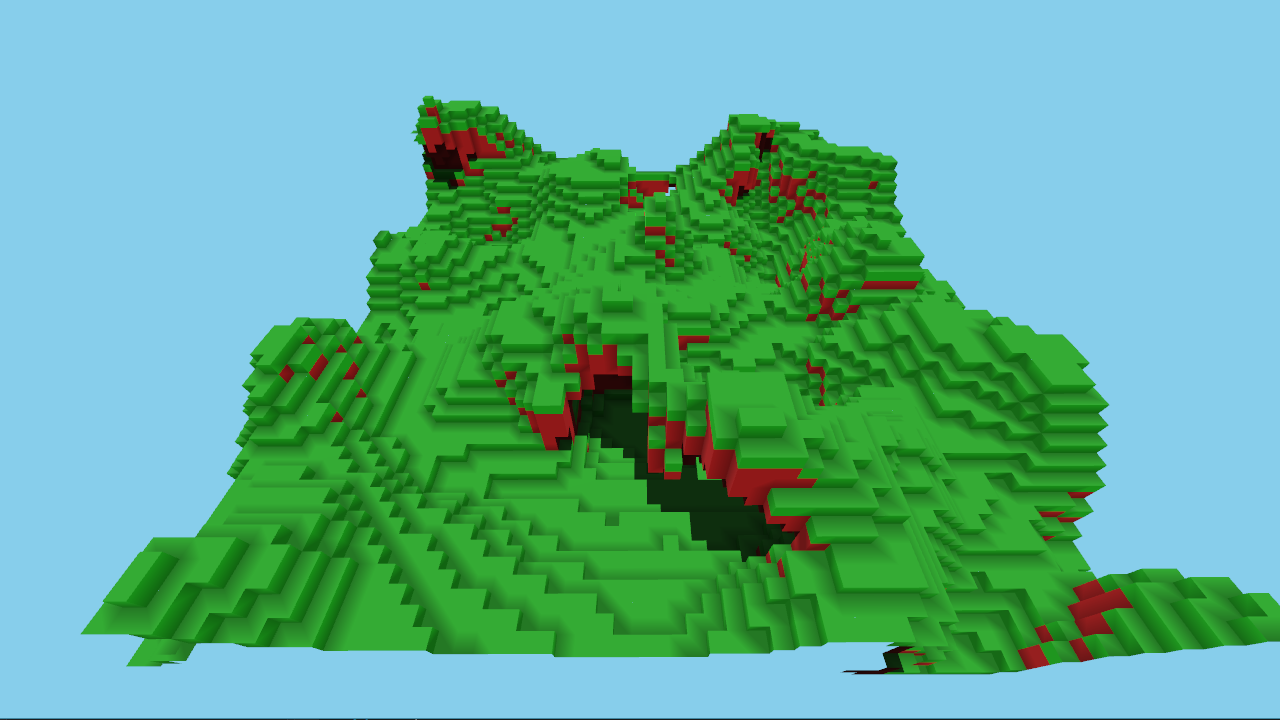
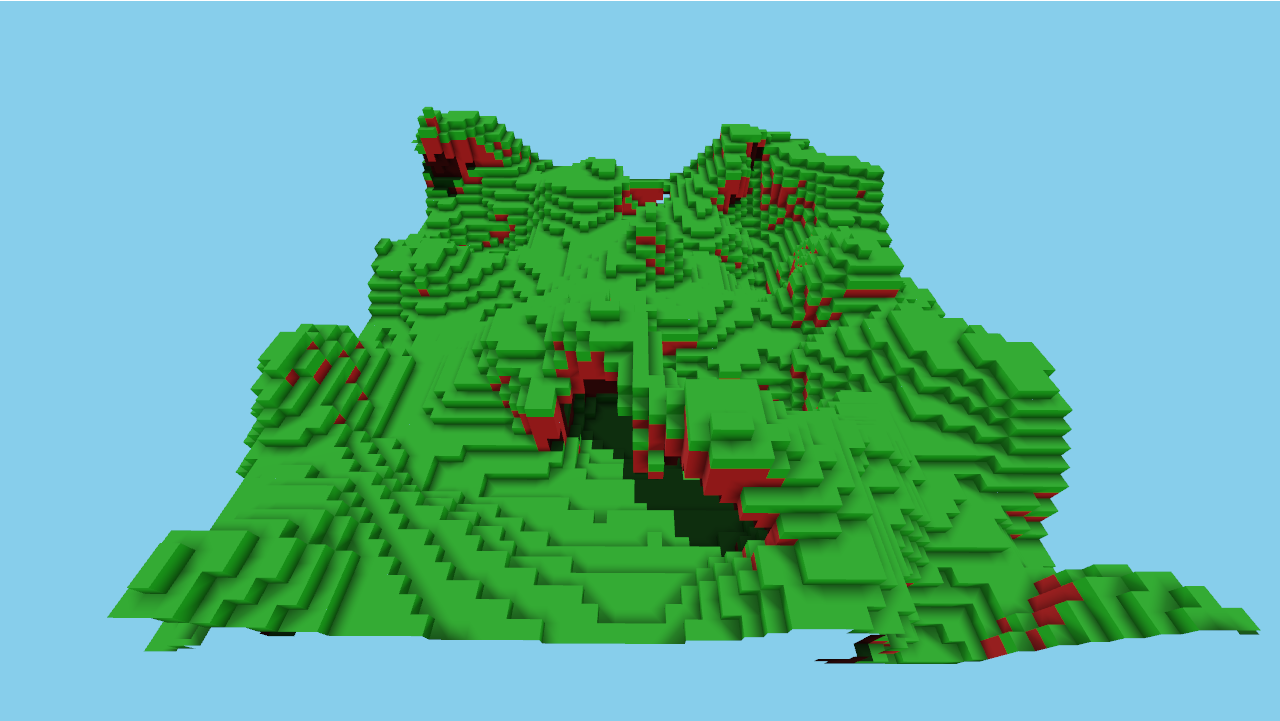
Fix AO anisotropy

Changed region(s): [[0.0625, 0.1222, 1.0, 0.9472], [0.0, 0.9778, 1.0, 1.0], [0.375, 0.825, 0.4062, 0.8556]]

diff --git a/src/mesher.h b/src/mesher.h
@@ -38,6 +38,13 @@ inline constexpr glm::ivec2 ao_dirs[8] = {
    glm::ivec2(1, 1),
 };
 
+inline const int vertexAO(int side1, int side2, int corner) {
+  if (side1 && side2) {
+    return 0;
+  }
+  return 3 - (side1 + side2 + corner);
+}
+
 inline const bool compare_ao(std::vector<uint8_t>& voxels, int axis, int forward, int right, int c, int forward_offset, int right_offset) {
   for (const auto& ao_dir : ao_dirs) {
     if (solid_check(voxels.at(get_axis_i(axis, right + ao_dir[0], forward + ao_dir[1], c))) !=
@@ -65,12 +72,17 @@ inline const bool compare_right(std::vector<uint8_t>& voxels, std::vector<uint8_
   ;
 }
 
-inline const void insert_quad(std::vector<uint32_t>* vertices, uint32_t x, uint32_t y, uint32_t z, uint32_t type, uint32_t light, uint32_t norm, uint32_t ao) {
-  vertices->insert(vertices->end(),
-    {
-      (ao << 30) | (norm << 27) | (light << 23) | (type << 18) | (z << 12) | (y << 6) | x
-    }
-   );
+inline const void insert_quad(std::vector<uint32_t>* vertices, uint32_t v1, uint32_t v2, uint32_t v3, uint32_t v4, bool flipped) {
+  if (flipped) {
+    vertices->insert(vertices->end(), { v1, v2, v4, v4, v2, v3 });
+  }
+  else {
+    vertices->insert(vertices->end(), { v1, v2, v3, v3, v4, v1 });
+  }
+}
+
+inline const uint32_t get_vertex(uint32_t x, uint32_t y, uint32_t z, uint32_t type, uint32_t light, uint32_t norm, uint32_t ao) {
+  return (ao << 30) | (norm << 27) | (light << 23) | (type << 18) | ((z - 1) << 12) | ((y - 1) << 6) | (x - 1);
 }
 
 // voxels - 64^3 (includes neighboring voxels)
@@ -180,61 +192,57 @@ std::vector<uint32_t>* mesh(std::vector<uint8_t>& voxels, std::vector<uint8_t>& 
           uint8_t ao_RFC = solid_check(voxels.at(get_axis_i(axis, right + 1, forward - 1, c))) ? 1 : 0;
           uint8_t ao_RBC = solid_check(voxels.at(get_axis_i(axis, right + 1, forward + 1, c))) ? 1 : 0;
 
-          uint8_t ao_LB = ao_L + ao_B + ao_LBC;
-          uint8_t ao_LF = ao_L + ao_F + ao_LFC;
-          uint8_t ao_RB = ao_R + ao_B + ao_RBC;
-          uint8_t ao_RF = ao_R + ao_F + ao_RFC;
+          uint8_t ao_LB = vertexAO(ao_L, ao_B, ao_LBC);
+          uint8_t ao_LF = vertexAO(ao_L, ao_F, ao_LFC);
+          uint8_t ao_RB = vertexAO(ao_R, ao_B, ao_RBC);
+          uint8_t ao_RF = vertexAO(ao_R, ao_F, ao_RFC);
 
           merged_forward[(right * CS_P) + bit_pos] = 0;
           merged_right[bit_pos] = 0;
 
+          uint32_t v1, v2, v3, v4;
           if (face == 0) {
-            insert_quad(vertices, mesh_left,  mesh_up, mesh_front, type, light, face, ao_LF);
-            insert_quad(vertices, mesh_left,  mesh_up, mesh_back,  type, light, face, ao_LB);
-            insert_quad(vertices, mesh_right, mesh_up, mesh_back,  type, light, face, ao_RB);
-            insert_quad(vertices, mesh_right, mesh_up, mesh_back,  type, light, face, ao_RB);
-            insert_quad(vertices, mesh_right, mesh_up, mesh_front, type, light, face, ao_RF);
-            insert_quad(vertices, mesh_left,  mesh_up, mesh_front, type, light, face, ao_LF);
+            v1 = get_vertex(mesh_left, mesh_up, mesh_front, type, light, face, ao_LF);
+            v2 = get_vertex(mesh_left, mesh_up, mesh_back, type, light, face, ao_LB);
+            v3 = get_vertex(mesh_right, mesh_up, mesh_back, type, light, face, ao_RB);
+            v4 = get_vertex(mesh_right, mesh_up, mesh_front, type, light, face, ao_RF);
           }
           else if (face == 1) {
-            insert_quad(vertices, mesh_left,  mesh_up, mesh_back,  type, light, face, ao_LB);
-            insert_quad(vertices, mesh_left,  mesh_up, mesh_front, type, light, face, ao_LF);
-            insert_quad(vertices, mesh_right, mesh_up, mesh_front, type, light, face, ao_RF);
-            insert_quad(vertices, mesh_right, mesh_up, mesh_front, type, light, face, ao_RF);
-            insert_quad(vertices, mesh_right, mesh_up, mesh_back,  type, light, face, ao_RB);
-            insert_quad(vertices, mesh_left,  mesh_up, mesh_back,  type, light, face, ao_LB);
+            v1 = get_vertex(mesh_left, mesh_up, mesh_back, type, light, face, ao_LB);
+            v2 = get_vertex(mesh_left, mesh_up, mesh_front, type, light, face, ao_LF);
+            v3 = get_vertex(mesh_right, mesh_up, mesh_front, type, light, face, ao_RF);
+            v4 = get_vertex(mesh_right, mesh_up, mesh_back, type, light, face, ao_RB);
           }
           else if (face == 2) {
-            insert_quad(vertices, mesh_up, mesh_front, mesh_left,  type, light, face, ao_LF);
-            insert_quad(vertices, mesh_up, mesh_back,  mesh_left,  type, light, face, ao_LB);
-            insert_quad(vertices, mesh_up, mesh_back,  mesh_right, type, light, face, ao_RB);
-            insert_quad(vertices, mesh_up, mesh_back,  mesh_right, type, light, face, ao_RB);
-            insert_quad(vertices, mesh_up, mesh_front, mesh_right, type, light, face, ao_RF);
-            insert_quad(vertices, mesh_up, mesh_front, mesh_left,  type, light, face, ao_LF);
+            v1 = get_vertex(mesh_up, mesh_front, mesh_left, type, light, face, ao_LF);
+            v2 = get_vertex(mesh_up, mesh_back, mesh_left, type, light, face, ao_LB);
+            v3 = get_vertex(mesh_up, mesh_back, mesh_right, type, light, face, ao_RB);
+            v4 = get_vertex(mesh_up, mesh_front, mesh_right, type, light, face, ao_RF);
           }
           else if (face == 3) {
-            insert_quad(vertices, mesh_up, mesh_back,  mesh_left,  type, light, face, ao_LB);
-            insert_quad(vertices, mesh_up, mesh_front, mesh_left,  type, light, face, ao_LF);
-            insert_quad(vertices, mesh_up, mesh_front, mesh_right, type, light, face, ao_RF);
-            insert_quad(vertices, mesh_up, mesh_front, mesh_right, type, light, face, ao_RF);
-            insert_quad(vertices, mesh_up, mesh_back,  mesh_right, type, light, face, ao_RB);
-            insert_quad(vertices, mesh_up, mesh_back,  mesh_left,  type, light, face, ao_LB);
+            v1 = get_vertex(mesh_up, mesh_back, mesh_left, type, light, face, ao_LB);
+            v2 = get_vertex(mesh_up, mesh_front, mesh_left, type, light, face, ao_LF);
+            v3 = get_vertex(mesh_up, mesh_front, mesh_right, type, light, face, ao_RF);
+            v4 = get_vertex(mesh_up, mesh_back, mesh_right, type, light, face, ao_RB);
           }
           else if (face == 4) {
-            insert_quad(vertices, mesh_front, mesh_left,  mesh_up, type, light, face, ao_LF);
-            insert_quad(vertices, mesh_back,  mesh_left,  mesh_up, type, light, face, ao_LB);
-            insert_quad(vertices, mesh_back,  mesh_right, mesh_up, type, light, face, ao_RB);
-            insert_quad(vertices, mesh_back,  mesh_right, mesh_up, type, light, face, ao_RB);
-            insert_quad(vertices, mesh_front, mesh_right, mesh_up, type, light, face, ao_RF);
-            insert_quad(vertices, mesh_front, mesh_left,  mesh_up, type, light, face, ao_LF);
+            v1 = get_vertex(mesh_front, mesh_left, mesh_up, type, light, face, ao_LF);
+            v2 = get_vertex(mesh_back, mesh_left, mesh_up, type, light, face, ao_LB);
+            v3 = get_vertex(mesh_back, mesh_right, mesh_up, type, light, face, ao_RB);
+            v4 = get_vertex(mesh_front, mesh_right, mesh_up, type, light, face, ao_RF);
           }
           else if (face == 5) {
-            insert_quad(vertices, mesh_back,  mesh_left,  mesh_up, type, light, face, ao_LB);
-            insert_quad(vertices, mesh_front, mesh_left,  mesh_up, type, light, face, ao_LF);
-            insert_quad(vertices, mesh_front, mesh_right, mesh_up, type, light, face, ao_RF);
-            insert_quad(vertices, mesh_front, mesh_right, mesh_up, type, light, face, ao_RF);
-            insert_quad(vertices, mesh_back,  mesh_right, mesh_up, type, light, face, ao_RB);
-            insert_quad(vertices, mesh_back,  mesh_left,  mesh_up, type, light, face, ao_LB);
+            v1 = get_vertex(mesh_back, mesh_left, mesh_up, type, light, face, ao_LB);
+            v2 = get_vertex(mesh_front, mesh_left, mesh_up, type, light, face, ao_LF);
+            v3 = get_vertex(mesh_front, mesh_right, mesh_up, type, light, face, ao_RF);
+            v4 = get_vertex(mesh_back, mesh_right, mesh_up, type, light, face, ao_RB);
+          }
+
+          if (ao_LB + ao_RF > ao_RB + ao_LF) {
+            insert_quad(vertices, v1, v2, v3, v4, true);
+          }
+          else {
+            insert_quad(vertices, v1, v2, v3, v4, false);
           }
         }
       }
